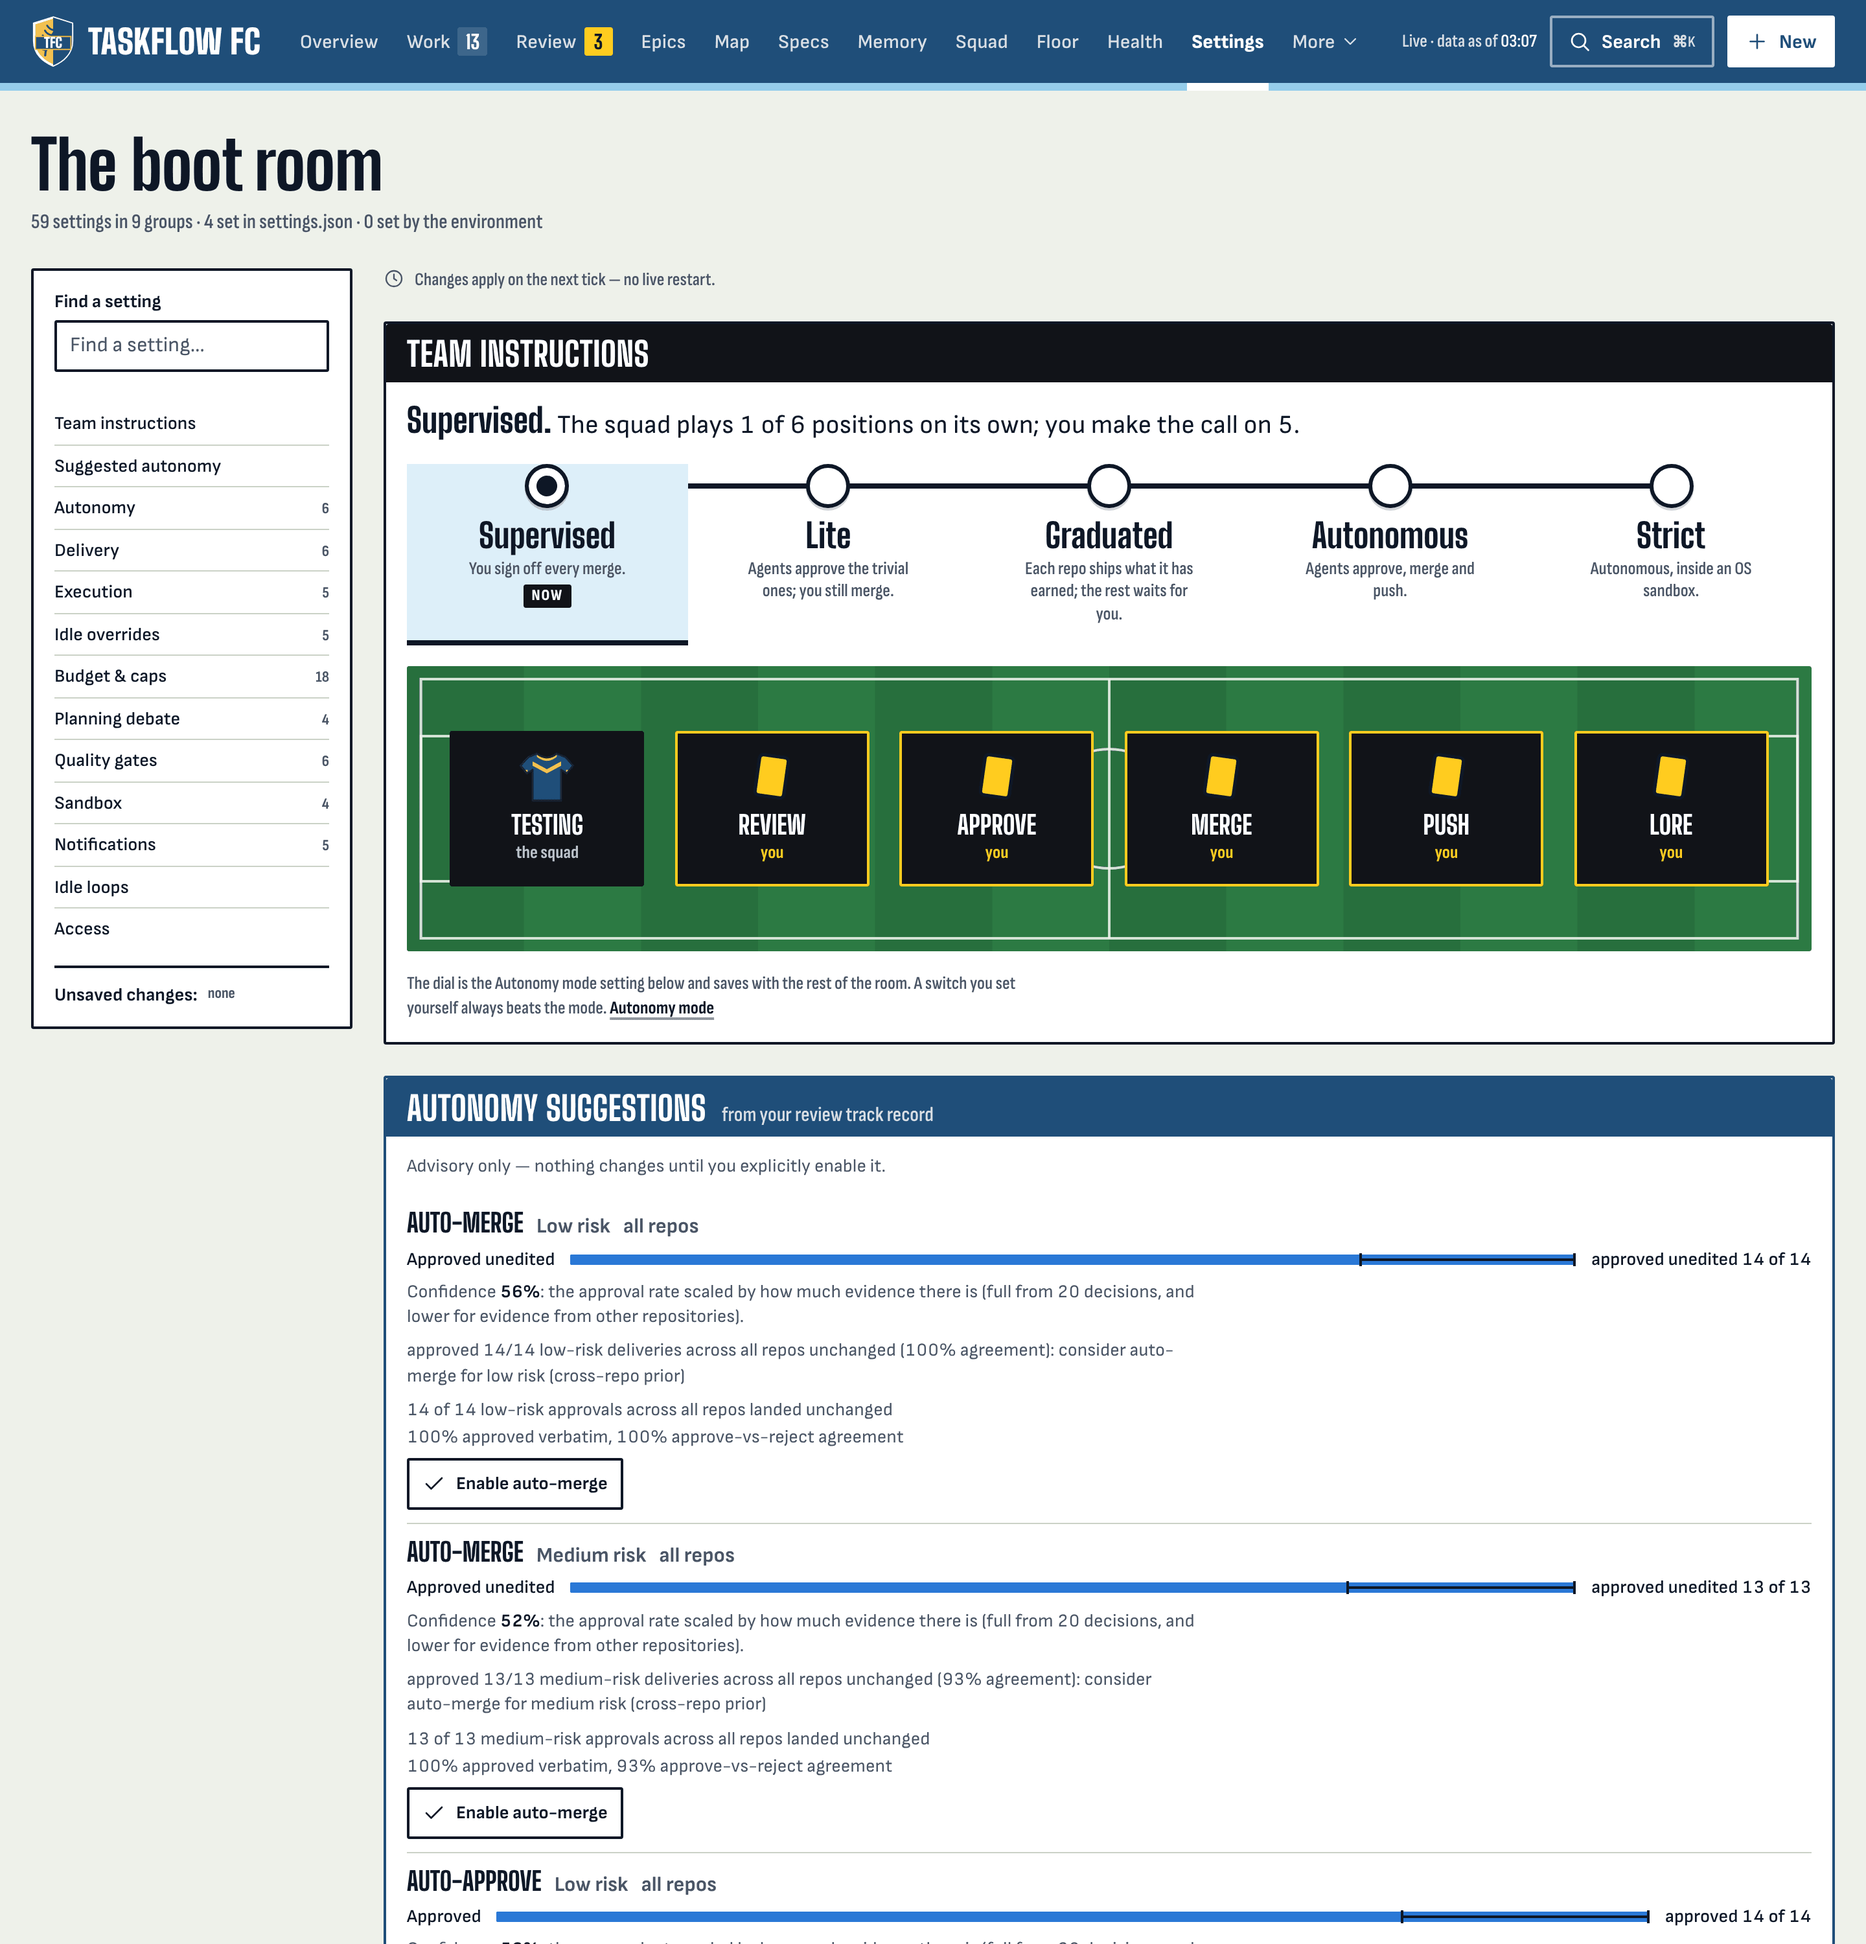
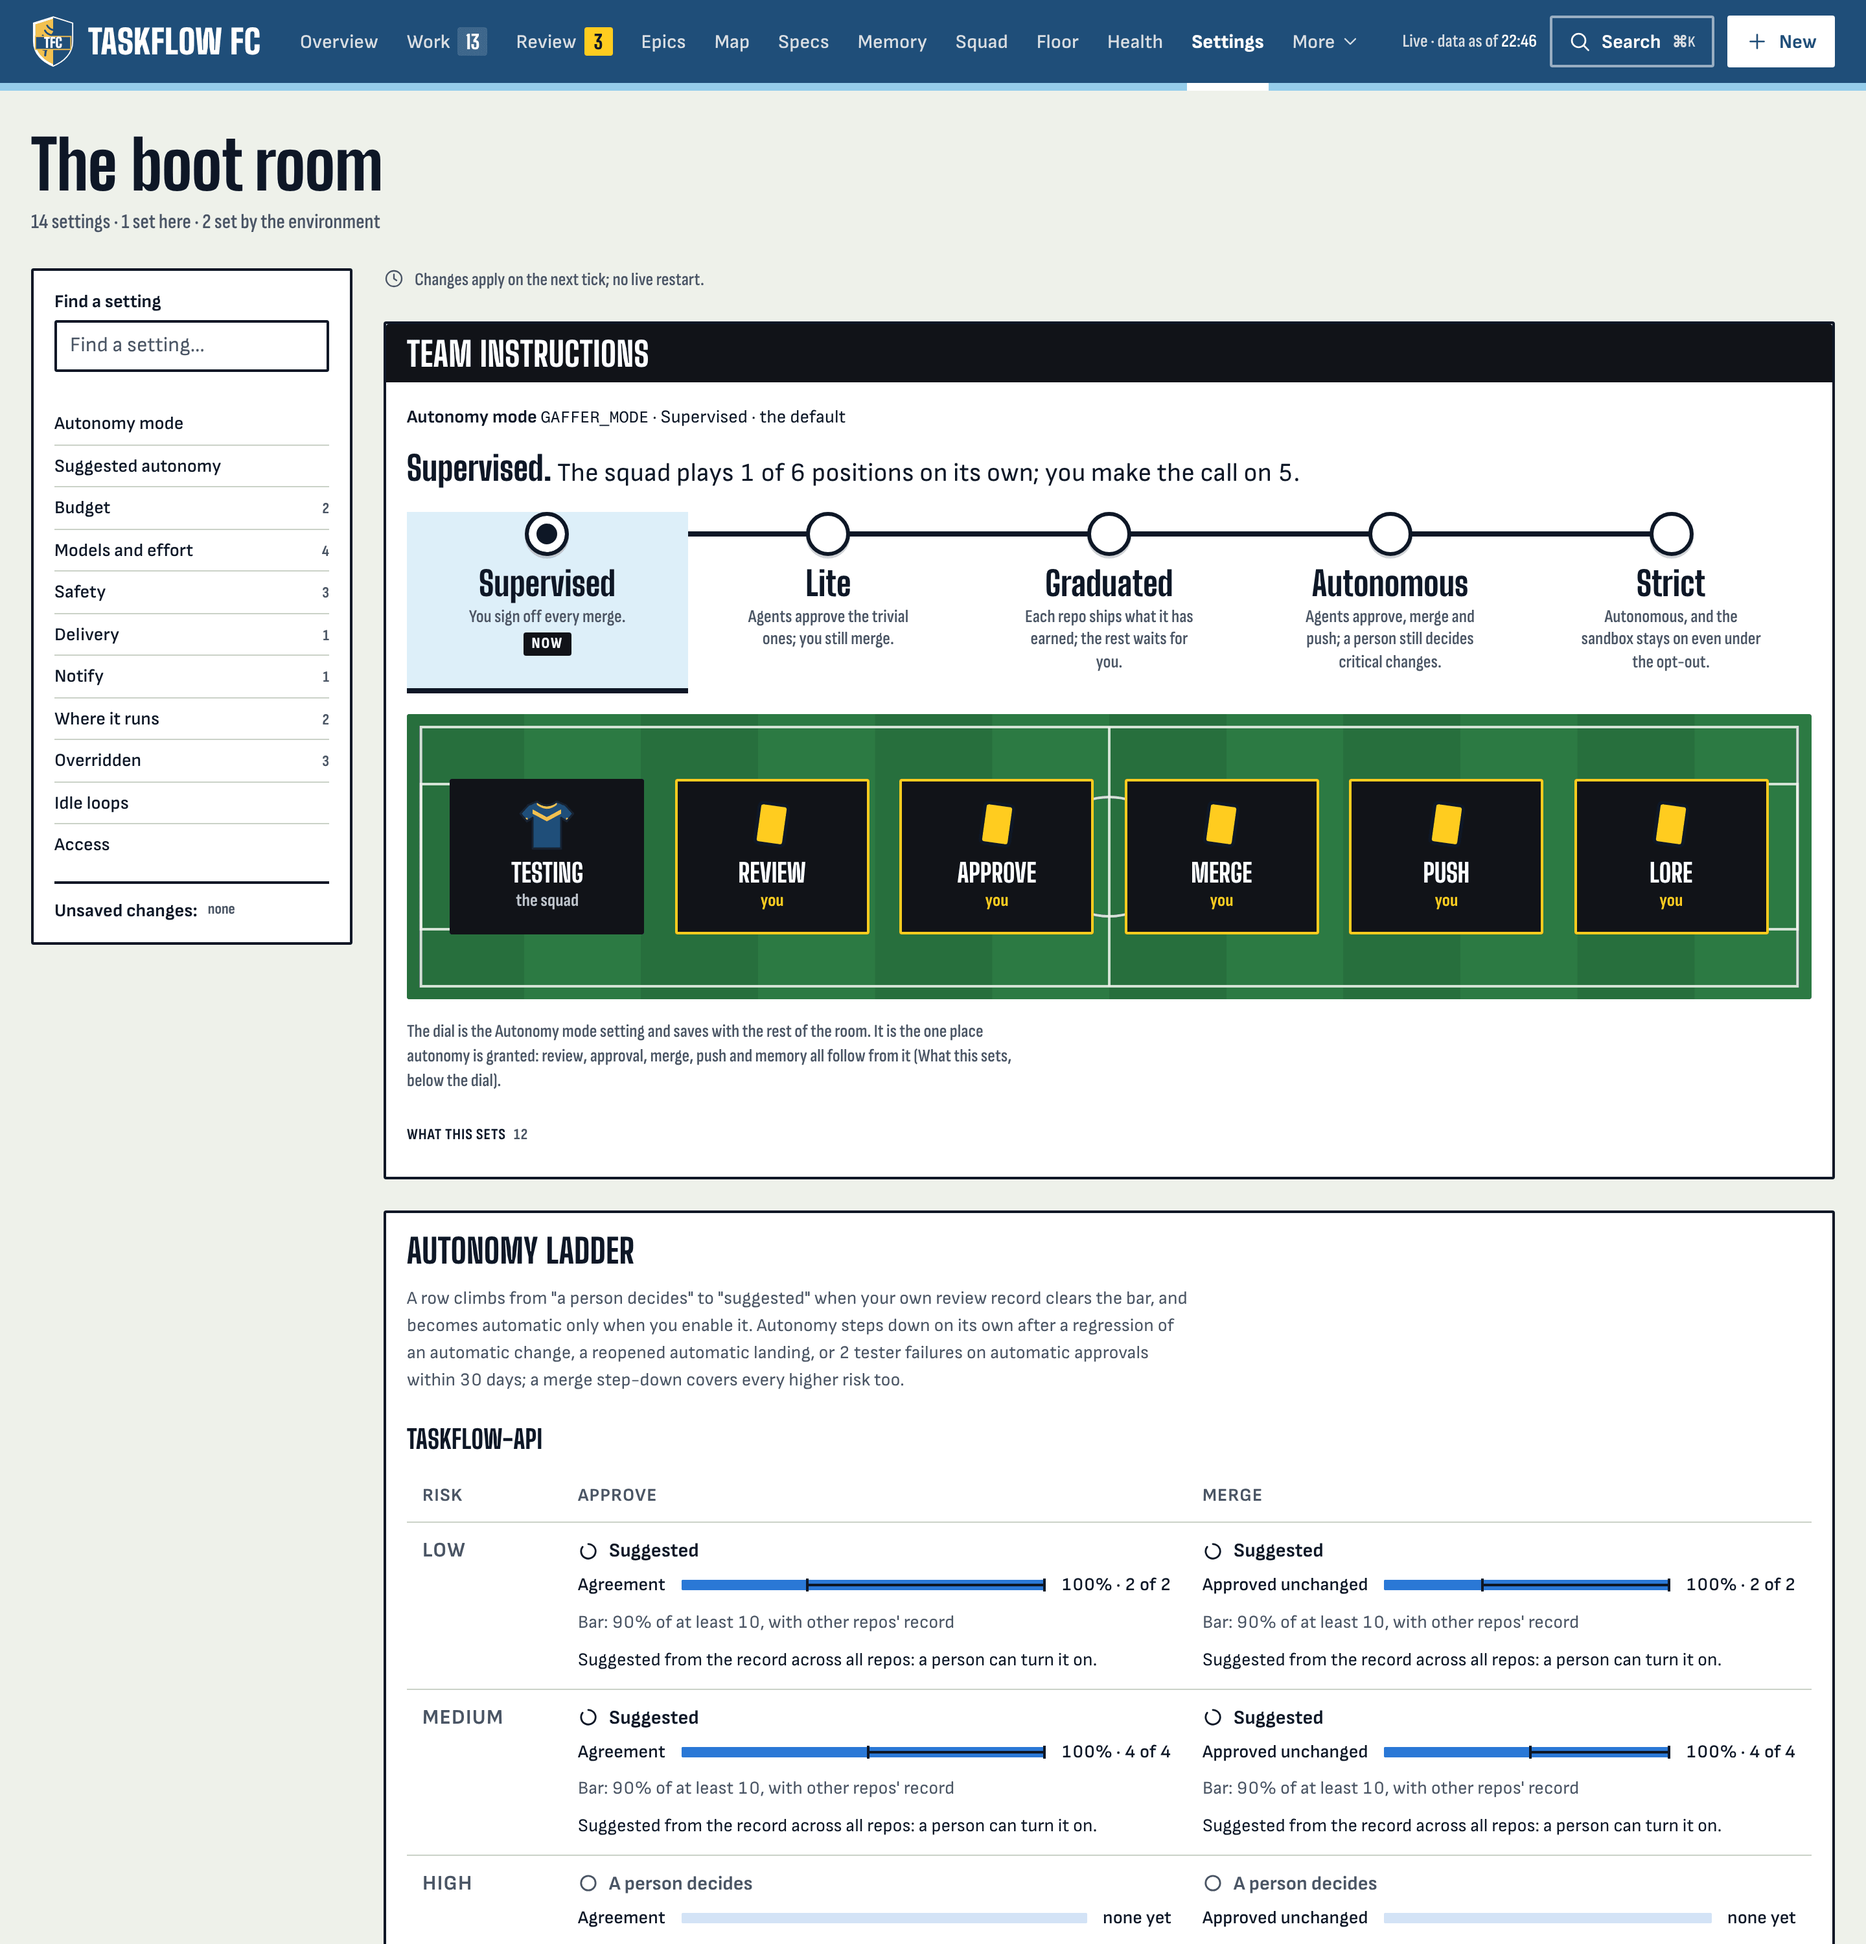
docs: the Settings screenshot shows the fourteen
Recaptured with scripts/screenshots.mjs from the demo world (after its old
keys were removed with the new act), caption updated.

diff --git a/docs/FEATURES.md b/docs/FEATURES.md
@@ -658,11 +658,11 @@ reading is in force (the stricter one), with one action that removes them after 
 exactly what goes; nothing is removed without it. A run the dashboard starts gets
 exactly what a run started from the command line gets from the same settings.json.
 
-![The boot room: the Team instructions dial on Supervised, who plays each position, and autonomy suggestions drawn from the review record](img/settings.png)
+![The boot room: the Autonomy mode dial on Supervised, who plays each position, and the autonomy ladder below it](img/settings.png)
 
-*The boot room (`#/settings`): the Team instructions dial on Supervised, and below it
-suggestions for what could be handed over, from your own review record. Nothing
-changes until you enable one.*
+*The boot room (`#/settings`): the Autonomy mode (`GAFFER_MODE`) as the dial on
+Supervised, with what it sets folded under it, and the autonomy ladder below. The
+other thirteen settings follow, each with where its value came from and what it sets.*
 
 ### The autonomy ladder and the step-down
 
